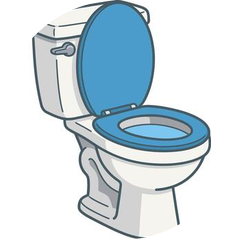
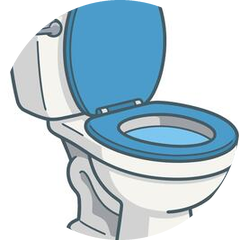
zooming in to pictures now

diff --git a/tools/prepare_image.py b/tools/prepare_image.py
@@ -2,21 +2,28 @@
 """Beliebiges Bild -> displayfertiges PNG in data/ (fuer LittleFS / GC9A01).
 
 Usage:
-    python tools/prepare_image.py <bild> [name] [groesse] [--no-circle]
+    python tools/prepare_image.py <bild> [name] [groesse] [optionen]
 
     python tools/prepare_image.py roh.png                # -> data/roh.png
-    python tools/prepare_image.py foto.jpg smoking       # -> data/smoking.png
-    python tools/prepare_image.py logo.png logo 200      # max. 200 px
+    python tools/prepare_image.py foto.jpg ente          # -> data/ente.png
+    python tools/prepare_image.py logo.png logo 200      # Zielflaeche 200 px
+    python tools/prepare_image.py icon.png --fit         # nicht zoomen (einpassen)
     python tools/prepare_image.py bild.png --no-circle   # ohne Kreismaske
 
-Was passiert:
-- proportional auf hoechstens GROESSE x GROESSE verkleinern (Default 240)
+Was passiert (Standard):
 - vollstaendig transparente Raender wegschneiden
-- weiche Kreismaske anlegen (passt zum runden Display), mit --no-circle aus
+- "Cover": so weit hineinzoomen, dass das Bild die komplette runde Anzeige
+  fuellt - kein Rand mehr sichtbar. Ueberstehende Bildteile werden zentriert
+  abgeschnitten.
+- weiche Kreismaske anlegen (sauberer Rand am runden Display)
 - als RGBA-PNG nach data/ schreiben  (dort holt es 'pio run -t uploadfs')
 
-Damit lassen sich Vorlagen beliebiger Aufloesung/Groesse einheitlich auf das
-240er-Display bringen; auf dem Pico wird nichts mehr skaliert.
+Optionen:
+    --fit         statt Cover einpassen (ganzes Bild sichtbar, evtl. Rand).
+                  Sinnvoll fuer freigestellte Icons mit Transparenz.
+    --no-circle   keine Kreismaske (rechteckig lassen).
+
+Auf dem Pico wird nichts mehr skaliert - das Bild kommt pixelgenau aufs Display.
 
 Requires Pillow ( pip install Pillow ).
 """
@@ -26,41 +33,69 @@ import sys
 from PIL import Image, ImageChops, ImageDraw
 
 DEFAULT_SIZE = 240
+KNOWN_OPTS = {"--fit", "--no-circle"}
+
+
+def resize_cover(im, size):
+    """Bild so skalieren, dass es size x size vollstaendig ueberdeckt, dann
+    zentriert auf size x size zuschneiden (kein Rand, Ueberstand faellt weg)."""
+    scale = max(size / im.width, size / im.height)
+    nw, nh = max(size, round(im.width * scale)), max(size, round(im.height * scale))
+    im = im.resize((nw, nh), Image.LANCZOS)
+    left, top = (nw - size) // 2, (nh - size) // 2
+    return im.crop((left, top, left + size, top + size))
+
+
+def resize_fit(im, size):
+    """Bild proportional in size x size einpassen (ganzes Bild bleibt sichtbar)."""
+    im = im.copy()
+    im.thumbnail((size, size), Image.LANCZOS)
+    return im
+
+
+def circle_mask(d):
+    """Weiche, 4x oversamplete Kreismaske der Kantenlaenge d."""
+    mask = Image.new("L", (d * 4, d * 4), 0)
+    ImageDraw.Draw(mask).ellipse((0, 0, d * 4 - 1, d * 4 - 1), fill=255)
+    return mask.resize((d, d), Image.LANCZOS)
 
 
 def main(argv):
     opts = {a for a in argv if a.startswith("--")}
     pos = [a for a in argv if not a.startswith("--")]
-    if not pos:
-        sys.exit(__doc__)
+    unknown = opts - KNOWN_OPTS
+    if not pos or unknown:
+        sys.exit(("Unbekannte Option: " + ", ".join(sorted(unknown)) + "\n\n"
+                  if unknown else "") + __doc__)
 
     src = pos[0]
     name = pos[1] if len(pos) > 1 else os.path.splitext(os.path.basename(src))[0]
     size = int(pos[2]) if len(pos) > 2 else DEFAULT_SIZE
+    cover = "--fit" not in opts
     circle = "--no-circle" not in opts
 
     im = Image.open(src).convert("RGBA")
     bbox = im.getbbox()
     if bbox:
         im = im.crop(bbox)
-    im.thumbnail((size, size), Image.LANCZOS)
+
+    im = resize_cover(im, size) if cover else resize_fit(im, size)
+
+    # Quadratische Zeichenflaeche; bei --fit wird das Bild darin zentriert.
+    d = size if cover else max(im.size)
+    canvas = Image.new("RGBA", (d, d), (0, 0, 0, 0))
+    canvas.paste(im, ((d - im.width) // 2, (d - im.height) // 2), im)
 
     if circle:
-        d = max(im.size)  # quadratische Zeichenflaeche, Bild wird einbeschrieben
-        # 4x oversampled Kreis -> weiche Kante nach dem Verkleinern
-        mask = Image.new("L", (d * 4, d * 4), 0)
-        ImageDraw.Draw(mask).ellipse((0, 0, d * 4 - 1, d * 4 - 1), fill=255)
-        mask = mask.resize((d, d), Image.LANCZOS)
+        canvas.putalpha(ImageChops.multiply(canvas.getchannel("A"), circle_mask(d)))
 
-        canvas = Image.new("RGBA", (d, d), (0, 0, 0, 0))
-        canvas.paste(im, ((d - im.width) // 2, (d - im.height) // 2), im)
-        canvas.putalpha(ImageChops.multiply(canvas.getchannel("A"), mask))
-        im = canvas
-
+    im = canvas
     os.makedirs("data", exist_ok=True)
     out = os.path.join("data", name + ".png")
     im.save(out, optimize=True)
-    print(f"{src} -> {out}  ({im.width}x{im.height})")
+    mode = "cover/zoom" if cover else "fit"
+    print(f"{src} -> {out}  ({im.width}x{im.height}, {mode}"
+          f"{', Kreis' if circle else ''})")
 
 
 if __name__ == "__main__":

diff --git a/data/README.md b/data/README.md
@@ -15,13 +15,15 @@ tauschen geht also ohne Neucompilieren.
 - PNG, moeglichst <= 240x240 px (rundes Display, sichtbarer Kreis 234 px).
 - 8-bit RGB oder RGBA; Palette/Graustufen gehen auch.
 - Transparenz (Alpha) wird gegen die `bg`-Farbe aus `imageShowPng()` verrechnet.
-- Vorlagen aufbereiten (Groesse + Kreismaske):
+- Vorlagen aufbereiten (zoomt automatisch, bis die runde Anzeige randlos
+  gefuellt ist; Ueberstand wird zentriert abgeschnitten):
 
   ```
   python tools/prepare_image.py rohbild.png smoking
   ```
 
-  schreibt `data/smoking.png` passend zurecht.
+  schreibt `data/smoking.png` passend zurecht. `--fit` passt stattdessen das
+  ganze Bild ein (fuer freigestellte Icons), `--no-circle` laesst es eckig.
 
 Die Demo in `src/main.cpp` zeigt beim Start automatisch jede `*.png` aus dem
 Wurzelverzeichnis nacheinander an.

diff --git a/README.md b/README.md
@@ -97,11 +97,16 @@ Mehrfarbige Grafiken werden als PNG im LittleFS-Dateisystem des Pico 2
 abgelegt – getrennt von der Firmware, also austauschbar ohne Neucompilieren.
 
 1. PNG(s) in den Ordner [`data/`](data/) legen (ideal ≤ 240×240 px). Optional
-   aufbereiten (Größe anpassen + Kreismaske für das runde Display):
+   aufbereiten – zoomt automatisch so weit hinein, dass das runde Display
+   randlos gefüllt ist (Überstand wird zentriert abgeschnitten), legt eine
+   weiche Kreismaske an:
 
    ```bash
    python tools/prepare_image.py rohbild.png smoking
    ```
+
+   `--fit` passt stattdessen das ganze Bild ein (für freigestellte Icons mit
+   Transparenz), `--no-circle` lässt das Ergebnis rechteckig.
 
 2. Dateisystem flashen:
 
